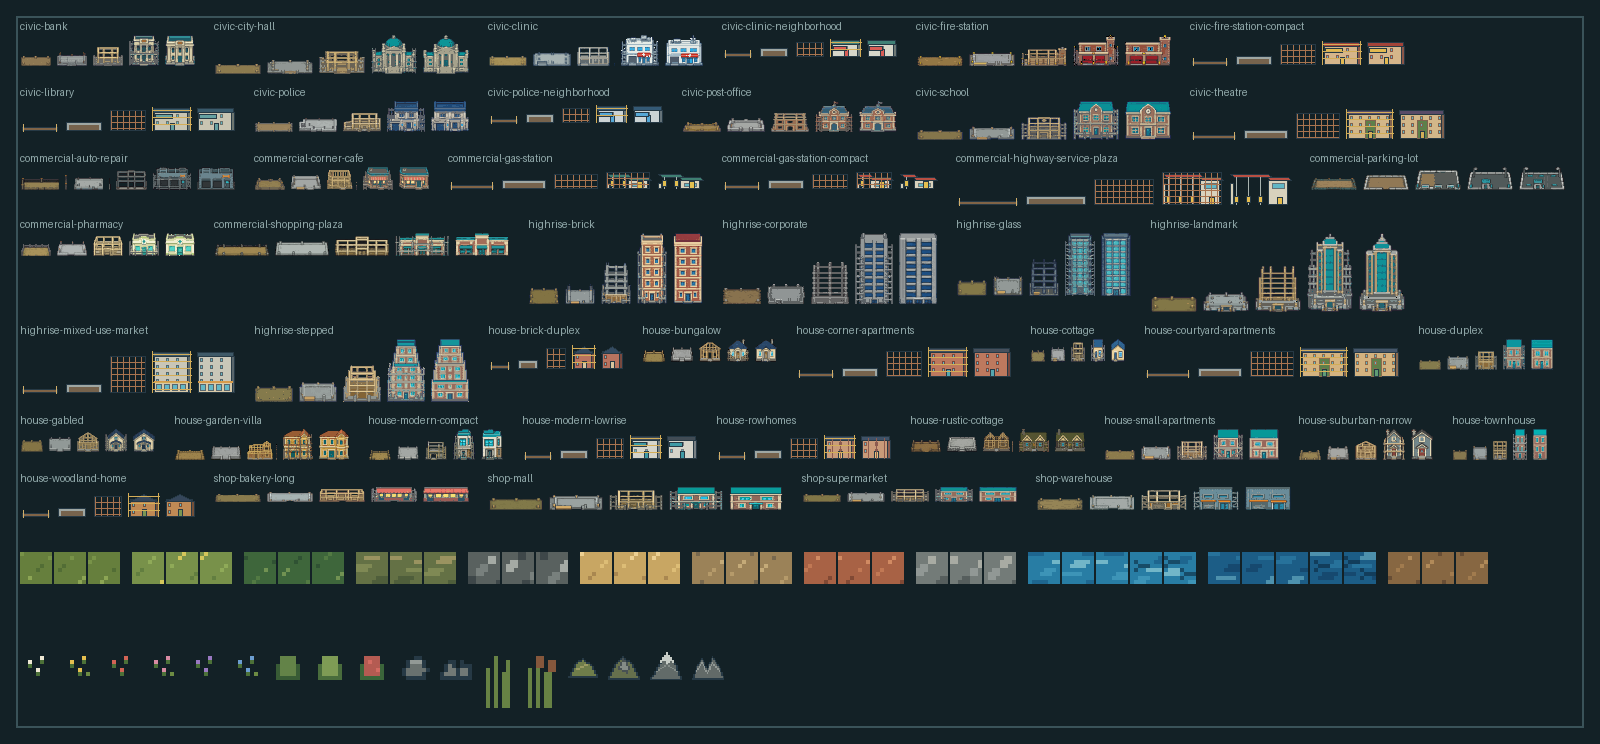
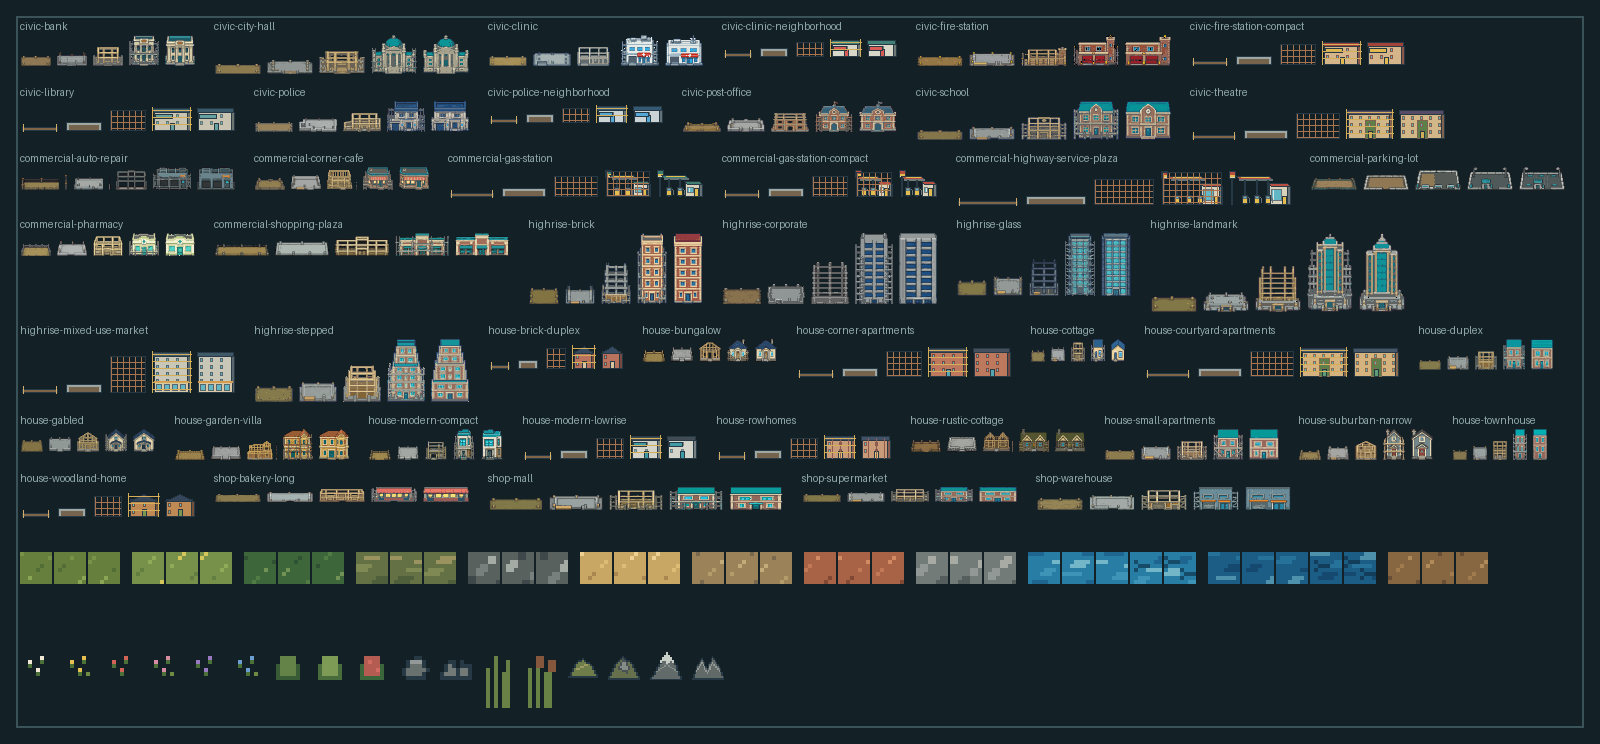
feat: redraw fuel stations in city pixel style

Changed region(s): [[0.2812, 0.2164, 0.5938, 0.2782], [0.7188, 0.2164, 0.8125, 0.2782]]

diff --git a/scripts/build-pixel-city-pack-v4.py b/scripts/build-pixel-city-pack-v4.py
@@ -420,26 +420,85 @@ def draw_frame(draw: ImageDraw.ImageDraw, width: int, top: int, bottom: int) -> 
     draw.rectangle((2, top, width - 3, bottom), outline=rgba(OUTLINE))
 
 
+def draw_gas_station(image: Image.Image, spec: HouseSpec, scaffold: bool) -> None:
+    """Draw a fuel station using the same visual grammar as the houses.
+
+    The shop is a compact building with a roof plane, front wall and shaded
+    right wall.  The canopy, pumps and price pylon make the service role
+    readable at native scale without relying on text or runtime labels.
+    """
+    draw = ImageDraw.Draw(image)
+    width, height = spec.size
+    bottom = height - 2
+    if spec.style == "gas-compact":
+        shop_left, shop_top, shop_right = width - 16, 13, width - 2
+        canopy_left, canopy_right, canopy_top = 3, shop_left + 2, 8
+        pump_centers = (10, 19)
+        sign_left, sign_top = 1, 4
+    elif spec.style == "gas-highway":
+        shop_left, shop_top, shop_right = width - 23, 15, width - 2
+        canopy_left, canopy_right, canopy_top = 8, shop_left + 3, 8
+        pump_centers = (17, 29, 40)
+        sign_left, sign_top = 1, 5
+    else:
+        shop_left, shop_top, shop_right = width - 19, 13, width - 2
+        canopy_left, canopy_right, canopy_top = 5, shop_left + 3, 7
+        pump_centers = (13, 24)
+        sign_left, sign_top = 1, 4
+
+    # Freestanding price/service pylon. The two-color panel remains legible at
+    # 1x and avoids fake unreadable lettering.
+    draw.rectangle((sign_left + 2, sign_top + 5, sign_left + 3, bottom), fill=rgba(spec.dark), outline=rgba(OUTLINE))
+    draw.rectangle((sign_left, sign_top, sign_left + 6, sign_top + 7), fill=rgba(spec.wall), outline=rgba(OUTLINE))
+    draw.rectangle((sign_left + 1, sign_top + 1, sign_left + 5, sign_top + 3), fill=rgba(spec.roof))
+    draw.rectangle((sign_left + 1, sign_top + 4, sign_left + 5, sign_top + 5), fill=rgba(spec.accent))
+
+    # Shop: a small but complete building, matching house roof/front/side
+    # construction rather than a flat white rectangle.
+    side_width = 3
+    draw.rectangle((shop_left, shop_top + 4, shop_right - side_width, bottom), fill=rgba(spec.wall), outline=rgba(OUTLINE))
+    draw.rectangle((shop_right - side_width, shop_top + 5, shop_right, bottom), fill=rgba(spec.dark), outline=rgba(OUTLINE))
+    draw.polygon(
+        [(shop_left - 1, shop_top + 2), (shop_right - 3, shop_top + 2), (shop_right, shop_top + 5), (shop_left + 2, shop_top + 5)],
+        fill=rgba(spec.roof), outline=rgba(OUTLINE),
+    )
+    window_right = max(shop_left + 5, shop_right - 9)
+    draw.rectangle((shop_left + 2, shop_top + 8, window_right, bottom - 4), fill=rgba(GLASS), outline=rgba(spec.dark))
+    draw.line((shop_left + 4, shop_top + 9, shop_left + 4, bottom - 5), fill=rgba("#d9e2ddff"))
+    draw.rectangle((shop_right - 8, bottom - 8, shop_right - 4, bottom), fill=rgba(spec.accent), outline=rgba(OUTLINE))
+
+    # Canopy is a shallow roof plane with a dark fascia and a shaded right
+    # face. Its overlap with the shop visually joins both parts of the station.
+    draw.polygon(
+        [(canopy_left, canopy_top + 2), (canopy_right - 3, canopy_top + 2),
+         (canopy_right, canopy_top + 5), (canopy_left + 3, canopy_top + 5)],
+        fill=rgba(spec.roof), outline=rgba(OUTLINE),
+    )
+    draw.line((canopy_left + 3, canopy_top + 5, canopy_right, canopy_top + 5), fill=rgba(spec.dark), width=2)
+    draw.line((canopy_left + 5, canopy_top + 3, canopy_right - 4, canopy_top + 3), fill=rgba(spec.accent))
+
+    # Columns sit behind the pumps. Pumps have a cyan display, colored body
+    # and one-pixel hose, which reads much more clearly than yellow squares.
+    for center in pump_centers:
+        if center >= shop_left:
+            continue
+        draw.rectangle((center - 1, canopy_top + 6, center, bottom), fill=rgba("#aeb9b6ff"), outline=rgba(OUTLINE))
+        pump_top = bottom - 9
+        draw.rectangle((center - 3, pump_top, center + 2, bottom - 1), fill=rgba(spec.accent), outline=rgba(OUTLINE))
+        draw.rectangle((center - 2, pump_top + 1, center + 1, pump_top + 3), fill=rgba(GLASS), outline=rgba(spec.dark))
+        draw.line((center + 3, pump_top + 2, center + 4, pump_top + 4, center + 4, bottom - 2), fill=rgba(spec.dark))
+
+    if scaffold:
+        draw_frame(draw, width, max(4, canopy_top - 2), bottom)
+
+
 def draw_finished_house(image: Image.Image, spec: HouseSpec, scaffold: bool) -> None:
     draw = ImageDraw.Draw(image)
     width, height = spec.size
     bottom = height - 2
     top = max(4, height // 4)
-    if spec.style == "gas-plaza":
-        # A service plaza is deliberately wider and visually sits on the
-        # asphalt platform supplied by the runtime footprint layer.
-        draw.rectangle((width - 24, 14, width - 5, bottom), fill=rgba(spec.wall), outline=rgba(OUTLINE))
-        draw.polygon([(width - 25, 11), (width - 4, 11), (width - 1, 14), (width - 22, 14)], fill=rgba(spec.roof), outline=rgba(OUTLINE))
-        draw.polygon([(2, 8), (width - 24, 8), (width - 20, 11), (6, 11)], fill=rgba(spec.roof), outline=rgba(OUTLINE))
-        for x in (8, 20, 32):
-            if x < width - 24:
-                draw.line((x, 11, x, bottom), fill=rgba("#a8b3afff"))
-                draw.rectangle((x - 2, bottom - 8, x + 2, bottom - 2), fill=rgba(spec.accent), outline=rgba(OUTLINE))
-        draw.rectangle((width - 20, 17, width - 8, min(bottom - 2, 22)), fill=rgba(GLASS), outline=rgba(spec.dark))
-        draw.rectangle((width - 15, bottom - 7, width - 10, bottom), fill=rgba(spec.accent), outline=rgba(OUTLINE))
-        draw.rectangle((2, 17, 5, bottom), fill=rgba("#d7d1b8ff"), outline=rgba(OUTLINE))
-        if scaffold:
-            draw_frame(draw, width, 6, bottom)
+    if spec.style.startswith("gas-"):
+        draw_gas_station(image, spec, scaffold)
         return
     body_top = top + (5 if spec.style in {"gabled", "duplex"} else 2)
     draw.rectangle((2, body_top, width - 4, bottom), fill=rgba(spec.wall), outline=rgba(OUTLINE))
@@ -497,9 +556,9 @@ def copy_v3_runtime() -> None:
         topdown_vertical_car(palette).save(RUNTIME / "vehicles" / f"car-{color}-vertical.png", optimize=True)
     (RUNTIME / "tiles" / "curb.png").unlink(missing_ok=True)
     classic_station = HouseSpec(
-        key="commercial-gas-station", label="Заправка", size=(48, 24), footprint=(6, 3),
+        key="commercial-gas-station", label="Заправка", size=(48, 32), footprint=(6, 3),
         wall="#d9d2bdff", dark="#657277ff", roof="#3f7f72ff", accent="#e2be4fff",
-        style="gas-plaza", rarity="UNCOMMON", category="COMMERCIAL",
+        style="gas-standard", rarity="UNCOMMON", category="COMMERCIAL",
     )
     destination = RUNTIME / "buildings" / "commercial" / classic_station.key
     for stage in range(1, 6): building_stage(classic_station, stage).save(destination / f"stage-{stage}.png", optimize=True)
@@ -573,6 +632,11 @@ def building_metadata(key: str, raw: dict) -> dict:
 def build_manifest(specs: list[HouseSpec]) -> dict:
     source_manifest = json.loads((V3 / "manifest.json").read_text())
     buildings = {key: building_metadata(key, value) for key, value in source_manifest["buildings"].items()}
+    # The original key remains stable for saved worlds, while its regenerated
+    # sprite gets the extra vertical cell needed for a house-like roof plane.
+    classic_station = buildings["commercial-gas-station"]
+    classic_station["spriteSize"] = [48, 32]
+    classic_station["anchorPx"] = [24, 32]
     if len({spec.key for spec in specs}) != len(specs):
         raise ValueError("generated-buildings.json contains duplicate keys")
     for spec in specs:
@@ -782,6 +846,34 @@ def contact_sheet(manifest: dict, specs: list[HouseSpec]) -> None:
     image.convert("RGB").save(SCREENSHOTS / "pixel-city-v4-expanded-assets.png", optimize=True)
 
 
+def gas_station_style_sheet(manifest: dict) -> None:
+    """Render a nearest-neighbour comparison against representative houses."""
+    keys = (
+        "house-cottage", "house-gabled", "house-modern-lowrise", "house-corner-apartments",
+        "commercial-gas-station-compact", "commercial-gas-station", "commercial-highway-service-plaza",
+    )
+    scale = 6
+    card_width, card_height = 240, 210
+    image = Image.new("RGB", (card_width * 4, card_height * 2), rgba("#132126ff")[:3])
+    draw = ImageDraw.Draw(image)
+    for index, key in enumerate(keys):
+        building = manifest["buildings"][key]
+        sprite = Image.open(RUNTIME / building["stages"][-1]).convert("RGBA")
+        sprite = sprite.resize((sprite.width * scale, sprite.height * scale), Image.Resampling.NEAREST)
+        column, row = index % 4, index // 4
+        left, top = column * card_width, row * card_height
+        ground_y = top + card_height - 28
+        draw.rectangle((left + 8, top + 8, left + card_width - 8, top + card_height - 8), fill=rgba("#1b2c30ff")[:3], outline=rgba("#3a5359ff")[:3])
+        draw.rectangle((left + 9, ground_y, left + card_width - 9, top + card_height - 9), fill=rgba("#526d35ff")[:3])
+        x = left + (card_width - sprite.width) // 2
+        y = ground_y - sprite.height
+        image.paste(sprite, (x, y), sprite)
+        draw.text((left + 16, top + 16), key, fill=rgba("#d9e2ddff")[:3])
+    draw.text((card_width * 3 + 16, card_height + 16), "houses -> fuel stations", fill=rgba("#e2be4fff")[:3])
+    SCREENSHOTS.mkdir(parents=True, exist_ok=True)
+    image.save(SCREENSHOTS / "gas-station-style-study.png", optimize=True)
+
+
 def main() -> None:
     if RUNTIME.exists(): shutil.rmtree(RUNTIME)
     RUNTIME.mkdir(parents=True, exist_ok=True)
@@ -791,6 +883,7 @@ def main() -> None:
     (PACK / "manifest.json").write_text(json.dumps(manifest, ensure_ascii=False, indent=2) + "\n")
     validate(manifest)
     contact_sheet(manifest, specs)
+    gas_station_style_sheet(manifest)
     if PUBLIC.exists(): shutil.rmtree(PUBLIC)
     shutil.copytree(RUNTIME, PUBLIC)
     shutil.copy2(PACK / "manifest.json", PUBLIC / "manifest.json")

diff --git a/scripts/audit-pixel-city-pack-v4.py b/scripts/audit-pixel-city-pack-v4.py
@@ -16,6 +16,11 @@ RUNTIME = PACK / "runtime"
 MANIFEST_PATH = PACK / "manifest.json"
 CELL = 8
 PALETTE_BUDGET = 32
+GAS_STATION_KEYS = {
+    "commercial-gas-station",
+    "commercial-gas-station-compact",
+    "commercial-highway-service-plaza",
+}
 
 
 def alpha_contract(image: Image.Image, label: str, violations: list[str]) -> tuple[int, int, int, int] | None:
@@ -49,6 +54,7 @@ def audit() -> dict[str, Any]:
     referenced: set[str] = set()
     palette_counts: Counter[str] = Counter()
     category_counts: Counter[str] = Counter()
+    gas_station_finished: dict[str, bytes] = {}
 
     if manifest.get("gridPx") != CELL:
         violations.append(f"manifest: gridPx must be {CELL}")
@@ -91,6 +97,20 @@ def audit() -> dict[str, Any]:
             stage_bytes.append(image.tobytes())
         if len(stage_bytes) == 5 and len(set(stage_bytes)) != 5:
             violations.append(f"{key}: construction stages contain duplicate images")
+        if key in GAS_STATION_KEYS and len(stage_bytes) == 5:
+            gas_station_finished[key] = stage_bytes[-1]
+            if height < 32:
+                violations.append(f"{key}: fuel-station canvas needs at least 32px height for a readable silhouette")
+            finished = load_image(stages[-1], f"{key}/finished-readability", violations)
+            if finished is not None:
+                bounds = finished.getchannel("A").getbbox()
+                if bounds is None or bounds[2] - bounds[0] < width * 0.8 or bounds[3] - bounds[1] < height * 0.6:
+                    violations.append(f"{key}: finished fuel-station silhouette is too small at native scale")
+
+    if set(gas_station_finished) != GAS_STATION_KEYS:
+        violations.append("fuel stations: expected compact, standard and highway variants")
+    elif len(set(gas_station_finished.values())) != len(GAS_STATION_KEYS):
+        violations.append("fuel stations: finished variants must not share the same drawing")
 
     def audit_grid_asset(relative_path: str, label: str, expected_size: tuple[int, int] | None = None) -> Image.Image | None:
         referenced.add(relative_path)

diff --git a/docs/BUILDINGS.md b/docs/BUILDINGS.md
@@ -43,7 +43,7 @@ Runtime source of truth — `assets/pixel-city-pack-v4/manifest.json`. `src/shar
 }
 ```
 
-Затем выполните `npm run assets:build && npm run assets:verify`. Builder создаст пять стадий, обновит manifest/public pack и перерисует contact sheet. Read-only audit отдельно проверит все runtime PNG: пять уникальных непустых стадий, сетку и footprint, bottom-center anchor, hard alpha, палитру до 32 цветов, одинаковую геометрию цветовых машин, отсутствие механического поворота ракурса, потерянных ссылок и лишних файлов.
+Затем выполните `npm run assets:build && npm run assets:verify`. Builder создаст пять стадий, обновит manifest/public pack и перерисует contact sheet. Read-only audit отдельно проверит все runtime PNG: пять уникальных непустых стадий, сетку и footprint, bottom-center anchor, hard alpha, палитру до 32 цветов, одинаковую геометрию цветовых машин, отсутствие механического поворота ракурса, потерянных ссылок и лишних файлов. Для семейства АЗС дополнительно проверяются три разные композиции, высота и читаемая площадь силуэта; визуальное сравнение с домами сохраняется в `screenshots/gas-station-style-study.png`.
 
 ## Подключить нарисованные вручную спрайты
 

diff --git a/assets/pixel-city-pack-v4/docs/GENERATION-SPEC.md b/assets/pixel-city-pack-v4/docs/GENERATION-SPEC.md
@@ -75,6 +75,8 @@
 ## Roadside и служебные здания
 
 - Придорожная АЗС использует тот же пятистадийный building contract, но runtime может публиковать готовую стадию как `worldFeature`, не создавая пользовательскую задачу.
+- АЗС обязана читаться без подписи в масштабе `1×`: отдельный магазин использует крышу, фасад и затенённую правую стену из языка жилых домов; навес имеет видимую плоскость и fascia; колонки содержат дисплей, корпус и шланг; отдельная стела не использует мелкий текст.
+- Компактная, обычная и трассовая АЗС имеют разные композиции и число колонок, но общие контур, стекло, направление света и bottom-center anchor. Минимальная высота canvas — `32 px`.
 - Mixed-use высотка обязана визуально отделять торговый первый этаж от жилых этажей и сохранять один footprint во всех стадиях.
 - World feature не содержит запечённую дорогу или траву: платформа, driveway и окружение строятся слоями карты.
 

diff --git a/CHANGELOG.md b/CHANGELOG.md
@@ -1,5 +1,17 @@
 # Changelog
 
+## 1.5.1
+
+### Changed
+
+- Компактная, обычная и трассовая АЗС полностью перерисованы в графическом языке жилых зданий: цельный магазин с крышей, фасадом и боковой тенью, объёмный навес, читаемые топливные колонки со шлангами и отдельная сервисная стела.
+- Canvas компактной и обычной АЗС увеличен до высоты 32 px без изменения footprint или стабильных ключей, поэтому существующие миры получают новый спрайт без миграции данных.
+
+### Quality
+
+- Asset audit закрепляет наличие трёх разных вариантов АЗС, минимальную высоту и заполнение силуэта в нативном масштабе.
+- Builder создаёт отдельный nearest-neighbour лист сравнения АЗС с характерными жилыми зданиями.
+
 ## 1.5.0
 
 ### Added
